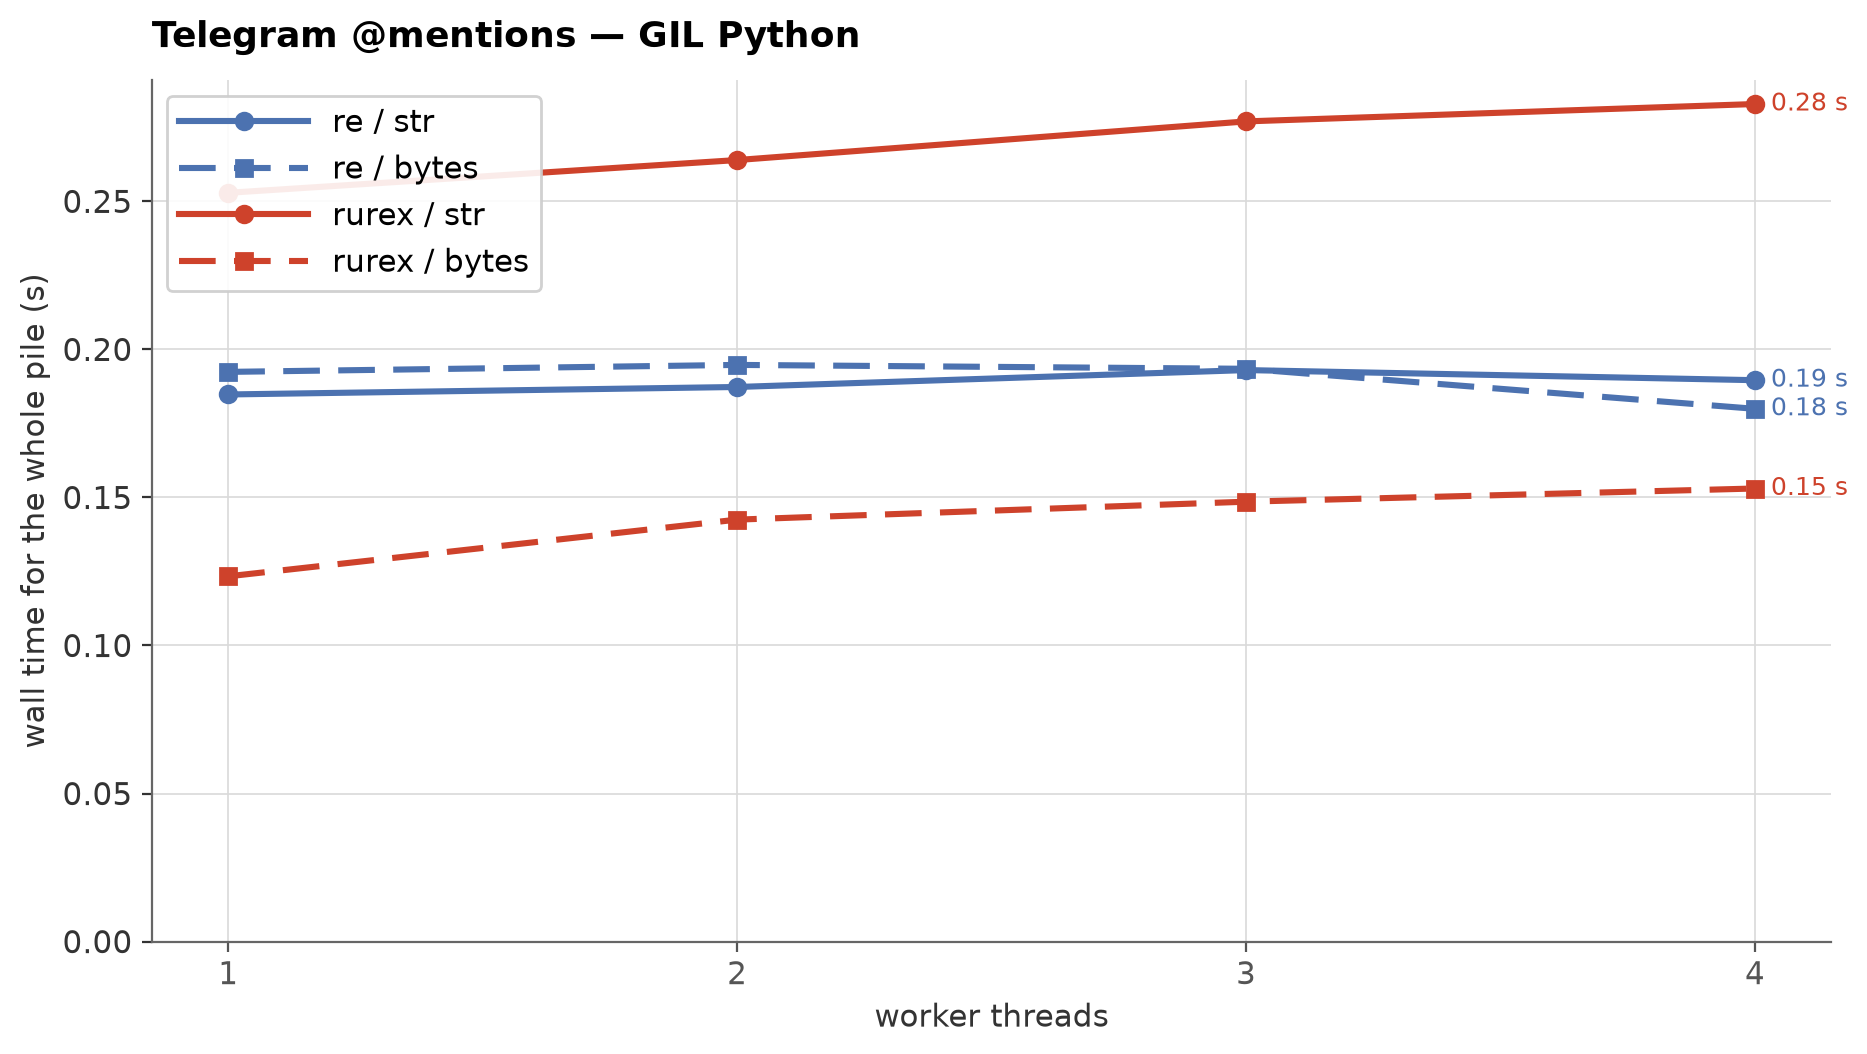
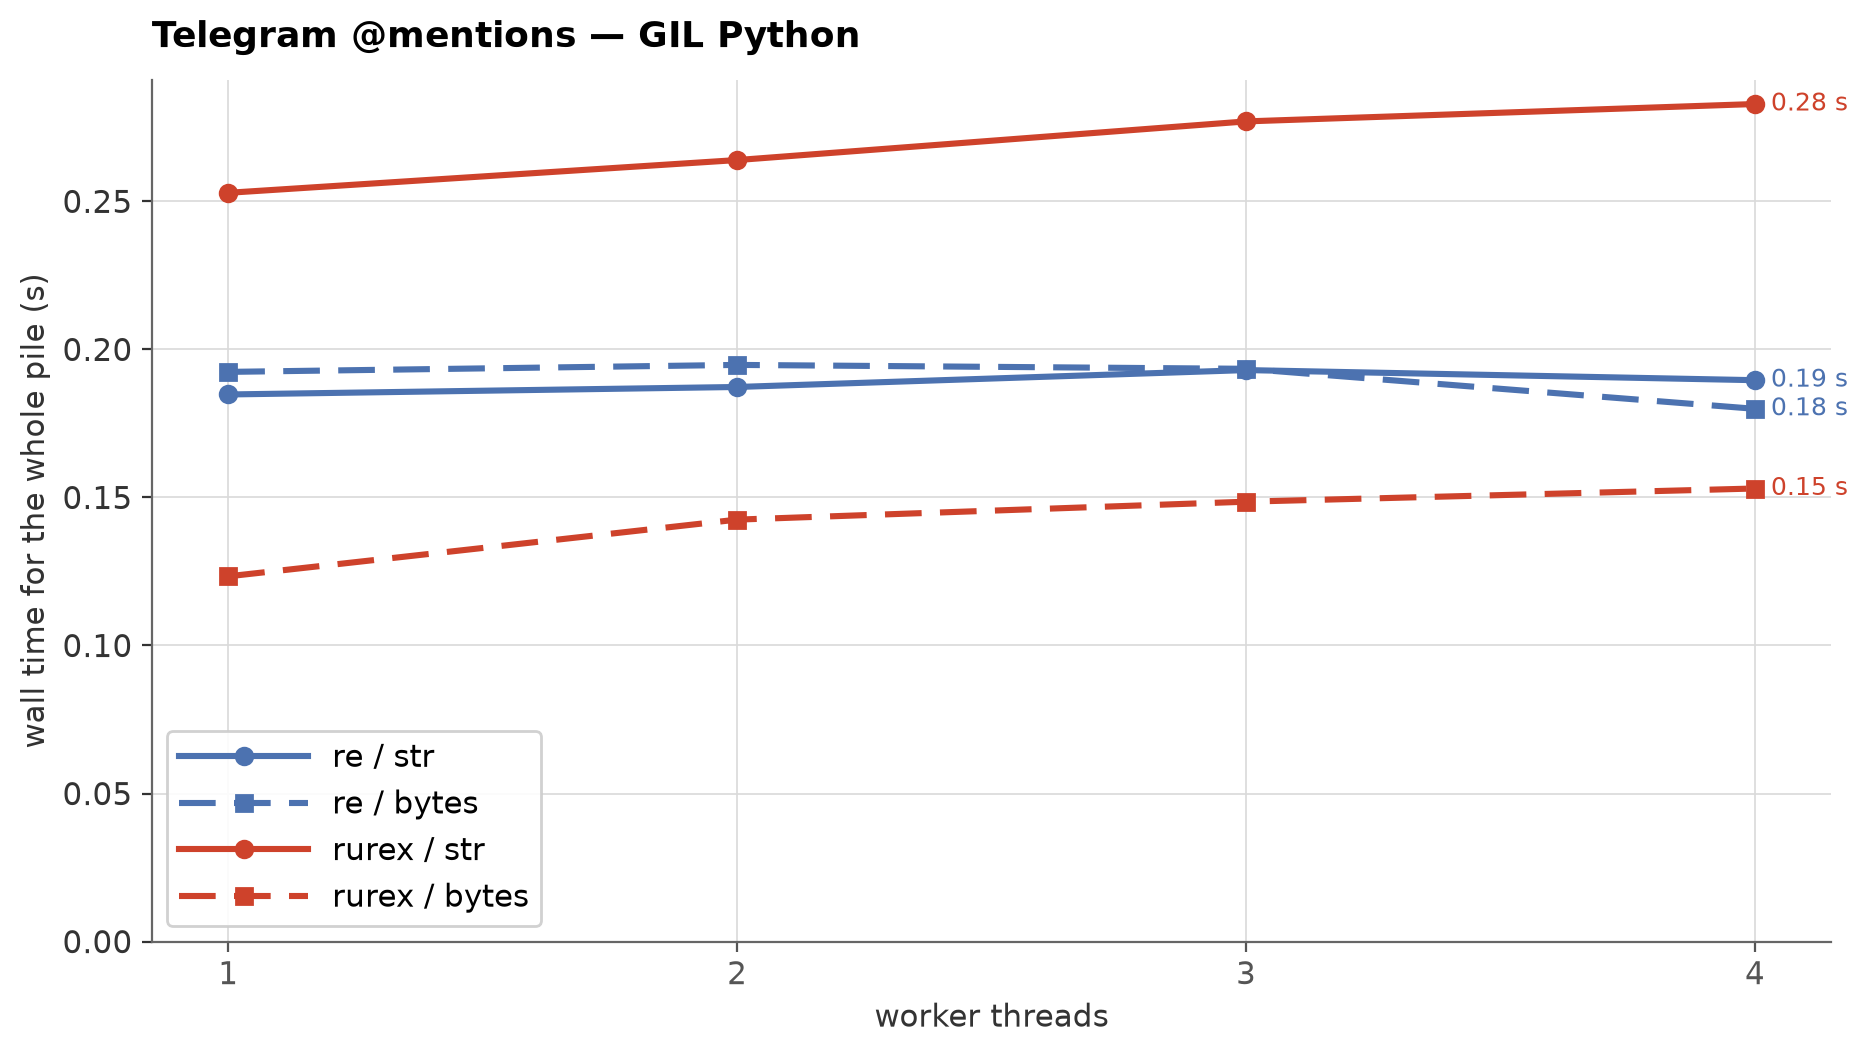
docs: move the Telegram legend to the lower left
With the y axis anchored at zero, the curves occupy the middle and top
of the panel and the upper-left corner held the legend over the re/str
line at one worker. Lower left is empty in both panels: the GIL lines
sit between 0.12 and 0.28 s and the free-threaded ones between 0.10 and
0.28 s, while the legend box stays under 0.07 s.

diff --git a/benchmarks/telegram_charts.py b/benchmarks/telegram_charts.py
@@ -91,7 +91,7 @@ def chart(data, interp, out_name):
     ax.set_ylabel("wall time for the whole pile (s)")
     ax.set_title(TITLES[interp], loc="left", fontsize=13,
                  fontweight="bold", pad=12)
-    ax.legend(loc="upper left", handlelength=4.2, handletextpad=0.8)
+    ax.legend(loc="lower left", handlelength=4.2, handletextpad=0.8)
     fig.tight_layout()
     path = IMG / out_name
     fig.savefig(path, bbox_inches="tight")
